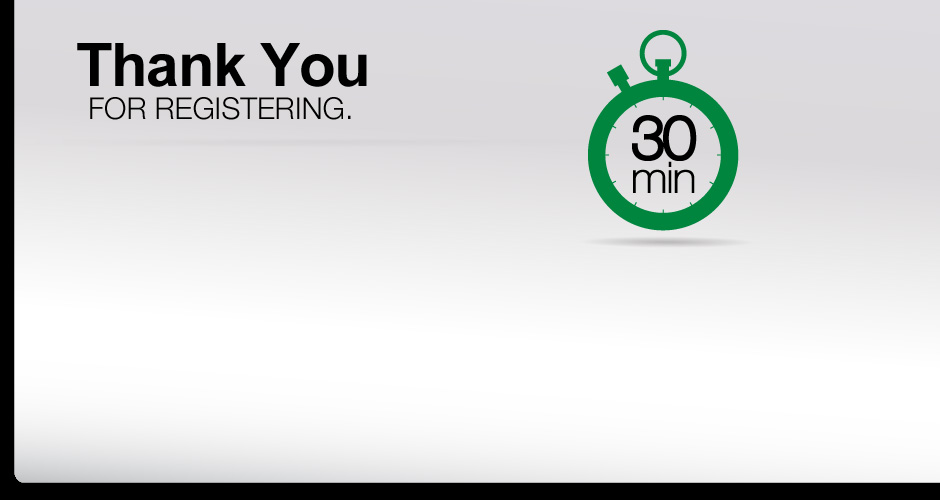
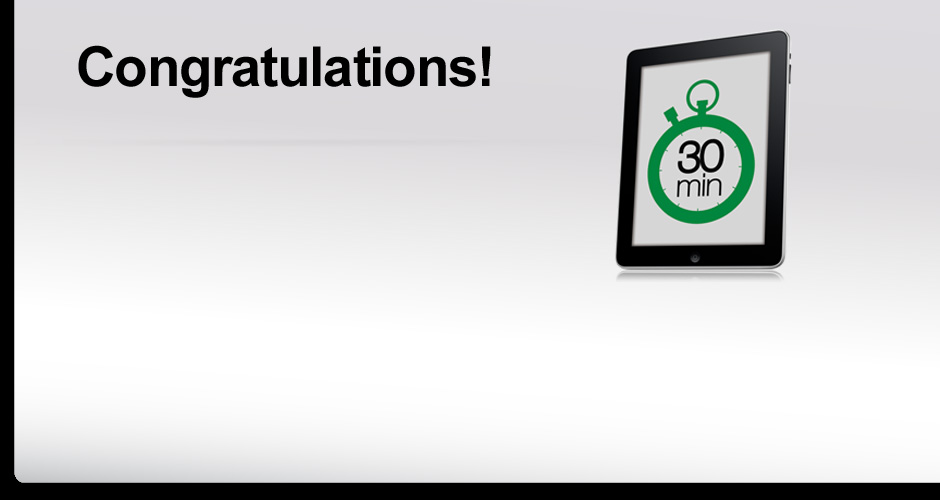
new lander response for claimSaver

Changed region(s): [[0.617, 0.06, 0.8638, 0.57], [0.0617, 0.06, 0.5245, 0.24]]

diff --git a/public/stylesheets/application.css b/public/stylesheets/application.css
@@ -1240,7 +1240,7 @@ div.career_banner_image_link a {
   bottom: 58px;
 }
 .ahip_thank_you_wrap {
-  bottom:110px;
+  bottom:160px;
   left:86px;
   width:360px;
 }

diff --git a/app/controllers/redirects_controller.rb b/app/controllers/redirects_controller.rb
@@ -13,7 +13,7 @@ class RedirectsController < ApplicationController
   end
   
   def linkedin_webinars
-    redirect_to "http://www2.hcinsight.com/l/1492/2010-06-22/HGH2J"
+    redirect_to "http://www2.hcinsight.com/l/1492/2010-07-02/HIZB5"
   end
   
 end
